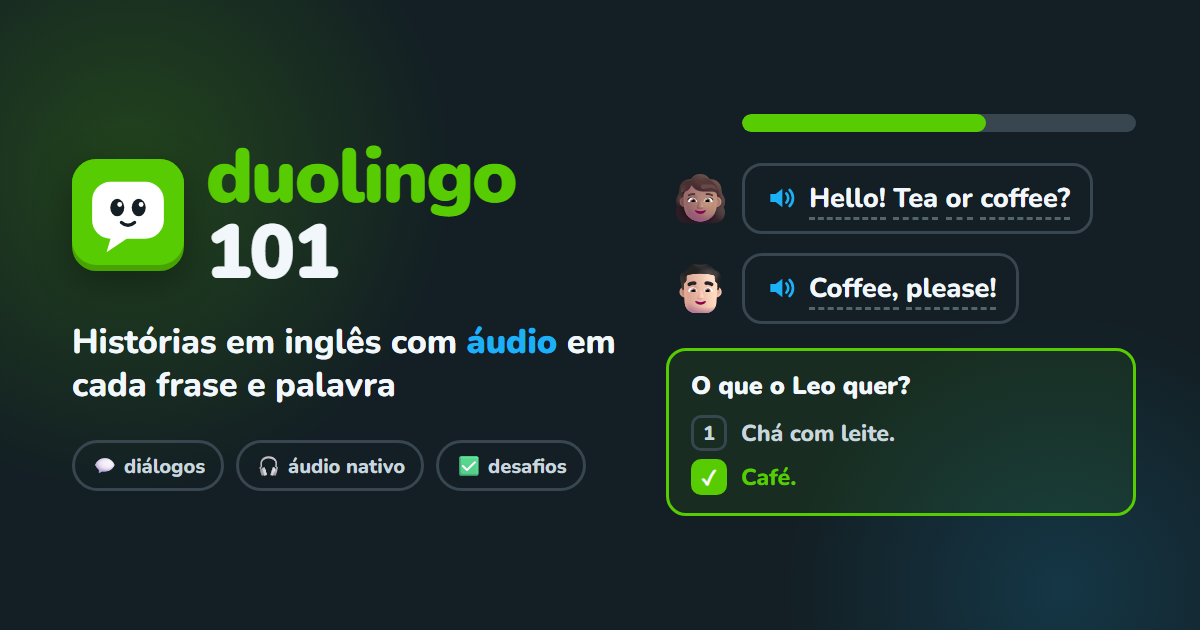
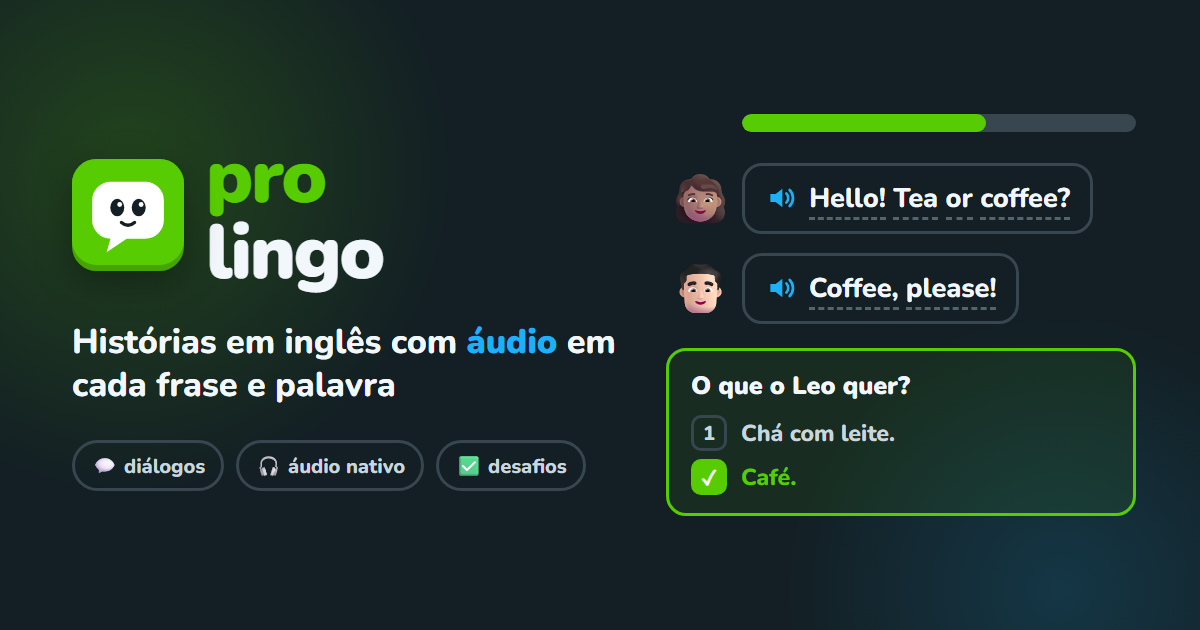
Prolingo: novo nome, endereco prolingo101.vercel.app com migracao do progresso e janela de saida propria

Changed region(s): [[0.1542, 0.2111, 0.4317, 0.4825]]

diff --git a/app.js b/app.js
@@ -1,4 +1,4 @@
-/* Duolingo 101 – lições em formato de história (diálogo + perguntas). Sem build, sem servidor. */
+/* Prolingo – lições em formato de história (diálogo + perguntas). Sem build, sem servidor. */
 (() => {
   "use strict";
 
@@ -18,6 +18,40 @@
   function saveProgress(p) {
     try { localStorage.setItem(KEY, JSON.stringify(p)); } catch {}
   }
+
+  /* ---------- Mudança de endereço: os endereços antigos mandam o progresso para o novo ---------- */
+  // o progresso fica salvo por endereço; por isso o endereço antigo o envia junto (no #, que não vai para o servidor)
+  const HOME_HOST = "prolingo101.vercel.app";
+  const OLD_HOSTS = ["duolingo101.vercel.app", "prolingo-br.vercel.app"];
+  if (OLD_HOSTS.includes(location.hostname)) {
+    let data = null;
+    try { data = localStorage.getItem(KEY); } catch {}
+    const pack = data ? "#import=" + encodeURIComponent(btoa(unescape(encodeURIComponent(data)))) : "";
+    location.replace(`https://${HOME_HOST}/${pack}`);
+    return;
+  }
+  function mergeProgress(a, b) {
+    const out = { ...b, ...a, lessons: { ...(b.lessons || {}) } };
+    for (const [k, v] of Object.entries(a.lessons || {})) {
+      const w = out.lessons[k];
+      out.lessons[k] = !w ? v : {
+        done: v.done || w.done, best: Math.max(v.best || 0, w.best || 0), at: v.at > w.at ? v.at : w.at,
+        faces: { ...(w.faces || {}), ...Object.fromEntries(Object.entries(v.faces || {}).filter(([, x]) => x)) },
+      };
+    }
+    out.xp = Math.max(a.xp || 0, b.xp || 0);
+    out.streak = Math.max(a.streak || 0, b.streak || 0);
+    out.lastDay = (a.lastDay || "") > (b.lastDay || "") ? a.lastDay : b.lastDay;
+    return out;
+  }
+  if (location.hash.startsWith("#import=")) {
+    try {
+      const incoming = JSON.parse(decodeURIComponent(escape(atob(decodeURIComponent(location.hash.slice(8))))));
+      saveProgress(mergeProgress(loadProgress(), incoming));
+    } catch {}
+    history.replaceState(null, "", location.pathname + "#/");
+  }
+
   let progress = Object.assign({ lessons: {}, unitLevel: {}, xp: 0, streak: 0, lastDay: null, autoplay: true, modes: {} }, loadProgress());
   progress.unitLevel ||= {};
   progress.modes ||= {};
@@ -70,7 +104,7 @@
   }
   function play(key, text, btn, onEnd) {
     stopAudio();
-    // clicar duas vezes seguidas no mesmo áudio toca mais devagar (como a tartaruga do Duolingo)
+    // clicar duas vezes seguidas no mesmo áudio toca mais devagar
     const slow = key === lastKey && Date.now() - lastAt < 4000;
     lastKey = key; lastAt = Date.now();
     btn?.classList.add("playing");
@@ -239,7 +273,7 @@
     stopAudio();
     const zig = [0, 60, 90, 60, 0, -60, -90, -60];
     const pro = section === "pro";
-    let html = `<header class="topbar"><div class="brand"><img src="/icons/icon.svg" alt="">duolingo 101</div>
+    let html = `<header class="topbar"><div class="brand"><img src="/icons/icon.svg" alt="">prolingo</div>
       <div class="stats">${installPrompt ? `<button class="install" id="install">⬇ Instalar</button>` : ""}<span class="fire" title="Dias seguidos">🔥 ${progress.streak}</span><span class="xp" title="XP">⚡ ${progress.xp} XP</span></div></header>
       <nav class="tabs" role="tablist">
         <a href="#/" class="tab ${pro ? "" : "on"}" role="tab" aria-selected="${!pro}">📚 Histórias</a>
@@ -283,7 +317,7 @@
     });
     const $inst = document.getElementById("install");
     if ($inst) $inst.onclick = async () => { installPrompt.prompt(); await installPrompt.userChoice; installPrompt = null; $inst.remove(); };
-    document.title = pro ? "Pro – Duolingo 101" : "Duolingo 101 – Histórias";
+    document.title = pro ? "Pro – Prolingo" : "Prolingo – Histórias";
   }
 
   function renderGuide(id) {
@@ -298,7 +332,7 @@
     }
     $app.innerHTML = html;
     $app.querySelector(".back").onclick = () => go(homeHash(sectionOf(u)));
-    document.title = `Guia: ${u.title} – Duolingo 101`;
+    document.title = `Guia: ${u.title} – Prolingo`;
   }
 
   /* ---------- Modos Fala e Escrita ---------- */
@@ -338,6 +372,31 @@
         : `<span class="mk ${p.status}" title="${p.status === "close" ? "Pequena diferença" : "Faltou ou não bateu"}">${esc(p.text)}<sup>!</sup></span>`).join("");
   }
   const hasMarks = (marks) => marks.some(m => m !== "ok");
+  // janela de confirmação do próprio app (no lugar do aviso do navegador)
+  function confirmDialog({ title, text, ok, cancel }) {
+    return new Promise((resolve) => {
+      const wrap = document.createElement("div");
+      wrap.className = "dialog-wrap";
+      wrap.innerHTML = `<div class="dialog" role="dialog" aria-modal="true" aria-labelledby="dlg-t">
+          <div class="dialog-icon"><img src="/icons/icon.svg" alt=""></div>
+          <h2 id="dlg-t">${esc(title)}</h2>
+          <p>${esc(text)}</p>
+          <button class="btn" data-r="0">${esc(cancel)}</button>
+          <button class="btn ghost danger" data-r="1">${esc(ok)}</button>
+        </div>`;
+      const close = (r) => { wrap.remove(); removeEventListener("keydown", onKey, true); resolve(r); };
+      const onKey = (e) => { if (e.key === "Escape") { e.stopPropagation(); close(false); } };
+      wrap.addEventListener("click", (e) => {
+        if (e.target === wrap) return close(false);
+        const b = e.target.closest("[data-r]");
+        if (b) close(b.dataset.r === "1");
+      });
+      addEventListener("keydown", onKey, true);
+      document.body.appendChild(wrap);
+      wrap.querySelector('[data-r="0"]').focus();
+    });
+  }
+
   let cleanup = null; // encerra microfone/áudio ao sair da lição
 
   async function renderLesson(id, level) {
@@ -356,7 +415,7 @@
     const { steps, cast } = content;
     const enQuestions = level >= 3; // a partir do nível 3, perguntas e opções em inglês
     const dialogueTotal = steps.filter(s => Array.isArray(s) && s[0] !== "nar").length;
-    document.title = `${lesson.title} (nível ${level}) – Duolingo 101`;
+    document.title = `${lesson.title} (nível ${level}) – Prolingo`;
 
     let pos = -1, mistakes = 0, answered = 0, waitingQuestion = false;
     let blocker = null; // exercício de fala/escrita em andamento: segura o "Continuar"
@@ -443,7 +502,16 @@
     });
     paintModes();
 
-    $app.querySelector(".close").onclick = () => { if (pos < 0 || confirm("Sair da lição? O progresso desta história será perdido.")) go(home); };
+    $app.querySelector(".close").onclick = async () => {
+      if (pos < 0) return go(home);
+      const leave = await confirmDialog({
+        title: "Sair da lição?",
+        text: "Você vai perder o progresso desta história e precisará começar de novo.",
+        cancel: "Continuar estudando",
+        ok: "Sair",
+      });
+      if (leave) go(home);
+    };
 
     function scrollDown(el) {
       requestAnimationFrame(() => el.scrollIntoView({ behavior: "smooth", block: "center" }));

diff --git a/index.html b/index.html
@@ -3,26 +3,26 @@
 <head>
   <meta charset="utf-8">
   <meta name="viewport" content="width=device-width, initial-scale=1, viewport-fit=cover">
-  <title>Duolingo 101 – Histórias</title>
-  <meta name="description" content="Histórias em inglês com áudio em cada frase e palavra, para complementar as lições do Duolingo.">
+  <title>Prolingo – Histórias em inglês</title>
+  <meta name="description" content="Histórias em inglês com áudio em cada frase e palavra: leitura, escuta, fala e escrita, do básico ao nativo.">
   <meta name="theme-color" content="#131f24">
   <meta name="color-scheme" content="dark">
 
   <!-- Compartilhamento (WhatsApp, Telegram, Facebook, X...) -->
   <meta property="og:type" content="website">
-  <meta property="og:site_name" content="Duolingo 101">
+  <meta property="og:site_name" content="Prolingo">
   <meta property="og:locale" content="pt_BR">
-  <meta property="og:url" content="https://duolingo101.vercel.app/">
-  <meta property="og:title" content="Duolingo 101 – Histórias em inglês">
+  <meta property="og:url" content="https://prolingo101.vercel.app/">
+  <meta property="og:title" content="Prolingo – Histórias em inglês">
   <meta property="og:description" content="Diálogos com áudio em cada frase e palavra, e desafios a cada poucas falas. 🎧💬">
-  <meta property="og:image" content="https://duolingo101.vercel.app/og-image.png">
+  <meta property="og:image" content="https://prolingo101.vercel.app/og-image.png">
   <meta property="og:image:width" content="1200">
   <meta property="og:image:height" content="630">
-  <meta property="og:image:alt" content="Duolingo 101: histórias em inglês com áudio">
+  <meta property="og:image:alt" content="Prolingo: histórias em inglês com áudio">
   <meta name="twitter:card" content="summary_large_image">
-  <meta name="twitter:title" content="Duolingo 101 – Histórias em inglês">
+  <meta name="twitter:title" content="Prolingo – Histórias em inglês">
   <meta name="twitter:description" content="Diálogos com áudio em cada frase e palavra, e desafios a cada poucas falas.">
-  <meta name="twitter:image" content="https://duolingo101.vercel.app/og-image.png">
+  <meta name="twitter:image" content="https://prolingo101.vercel.app/og-image.png">
 
   <!-- Ícones e app instalável -->
   <link rel="icon" href="/favicon.ico" sizes="any">
@@ -32,7 +32,7 @@
   <meta name="apple-mobile-web-app-capable" content="yes">
   <meta name="mobile-web-app-capable" content="yes">
   <meta name="apple-mobile-web-app-status-bar-style" content="black-translucent">
-  <meta name="apple-mobile-web-app-title" content="Duolingo 101">
+  <meta name="apple-mobile-web-app-title" content="Prolingo">
 
   <link rel="preconnect" href="https://fonts.googleapis.com">
   <link rel="preconnect" href="https://fonts.gstatic.com" crossorigin>

diff --git a/style.css b/style.css
@@ -288,3 +288,14 @@ button { font: inherit; color: inherit; cursor: pointer; }
 .blank.near { border-color: var(--orange); color: var(--orange); }
 .fix.near { color: var(--orange); }
 .practice.ok .pr-msg .diff { color: var(--text); }
+
+/* ---------- Janela de confirmação do app ---------- */
+.dialog-wrap { position: fixed; inset: 0; z-index: 80; background: rgba(5,12,15,.72); display: grid; place-items: end center; padding: 16px; animation: fadein .2s ease; }
+@keyframes fadein { from { opacity: 0; } }
+.dialog { width: 100%; max-width: 440px; background: var(--panel); border: 2px solid var(--line); border-radius: 22px; padding: 22px 20px 18px; text-align: center; display: grid; gap: 10px; animation: rise .25s ease; margin-bottom: max(8px, env(safe-area-inset-bottom)); }
+.dialog-icon img { width: 56px; height: 56px; }
+.dialog h2 { margin: 2px 0 0; font-size: 22px; font-weight: 900; }
+.dialog p { margin: 0 0 8px; color: var(--muted); font-weight: 600; line-height: 1.45; }
+.dialog .btn { width: 100%; margin: 0; }
+.btn.danger { color: var(--red); border-color: var(--line); }
+@media (min-width: 600px) { .dialog-wrap { place-items: center; } }

diff --git a/tools/og.html b/tools/og.html
@@ -32,7 +32,7 @@
 <body>
   <div class="glow"></div><div class="glow2"></div>
   <div class="left">
-    <div class="logo"><img src="../icons/icon.svg"><h1>duolingo<br><span>101</span></h1></div>
+    <div class="logo"><img src="../icons/icon.svg"><h1>pro<br><span>lingo</span></h1></div>
     <p class="tag">Histórias em inglês com <b>áudio</b> em cada frase e palavra</p>
     <div class="chips"><span class="chip">💬 diálogos</span><span class="chip">🎧 áudio nativo</span><span class="chip">✅ desafios</span></div>
   </div>

diff --git a/README.md b/README.md
@@ -1,6 +1,6 @@
-# Duolingo 101 — Histórias
+# Prolingo — Histórias em inglês
 
-App no estilo das *Histórias* do Duolingo para complementar o curso de inglês:
+App de histórias em inglês para estudar com diálogos:
 um diálogo longo, com uma pergunta a cada 4–5 falas, todas as frases e palavras com áudio em inglês.
 
 ## Como funciona (sem banco de dados, sem servidor)
@@ -10,7 +10,7 @@ um diálogo longo, com uma pergunta a cada 4–5 falas, todas as frases e palavr
 | Lições | `data/unitN.json` (nesta pasta, no seu PC) | O "banco de dados" é a própria pasta — arquivos JSON versionados no Git |
 | Áudios | `audio/*.mp3` + `audio/manifest.json` | Gerados uma vez com vozes neurais grátis (edge-tts) |
 | Progresso (XP, sequência, lições feitas) | `localStorage` do navegador | Fica salvo em cada aparelho |
-| Site | Vercel (projeto `duolingo101`) | Publica sozinho a cada `git push` |
+| Site | Vercel (projeto `prolingo`, https://prolingo101.vercel.app) | Publica sozinho a cada `git push` |
 
 ## Atalhos
 
